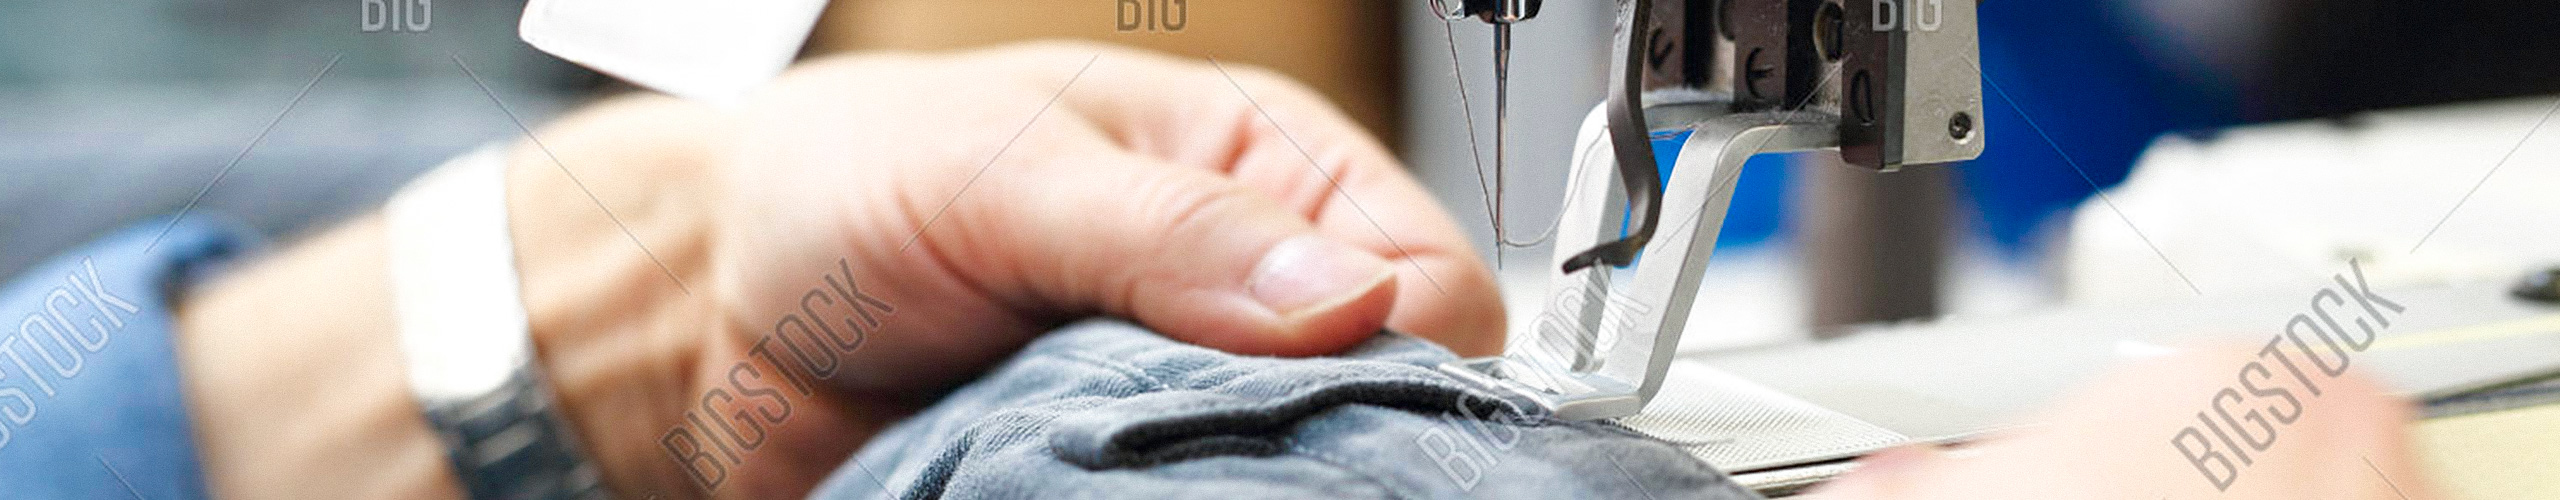
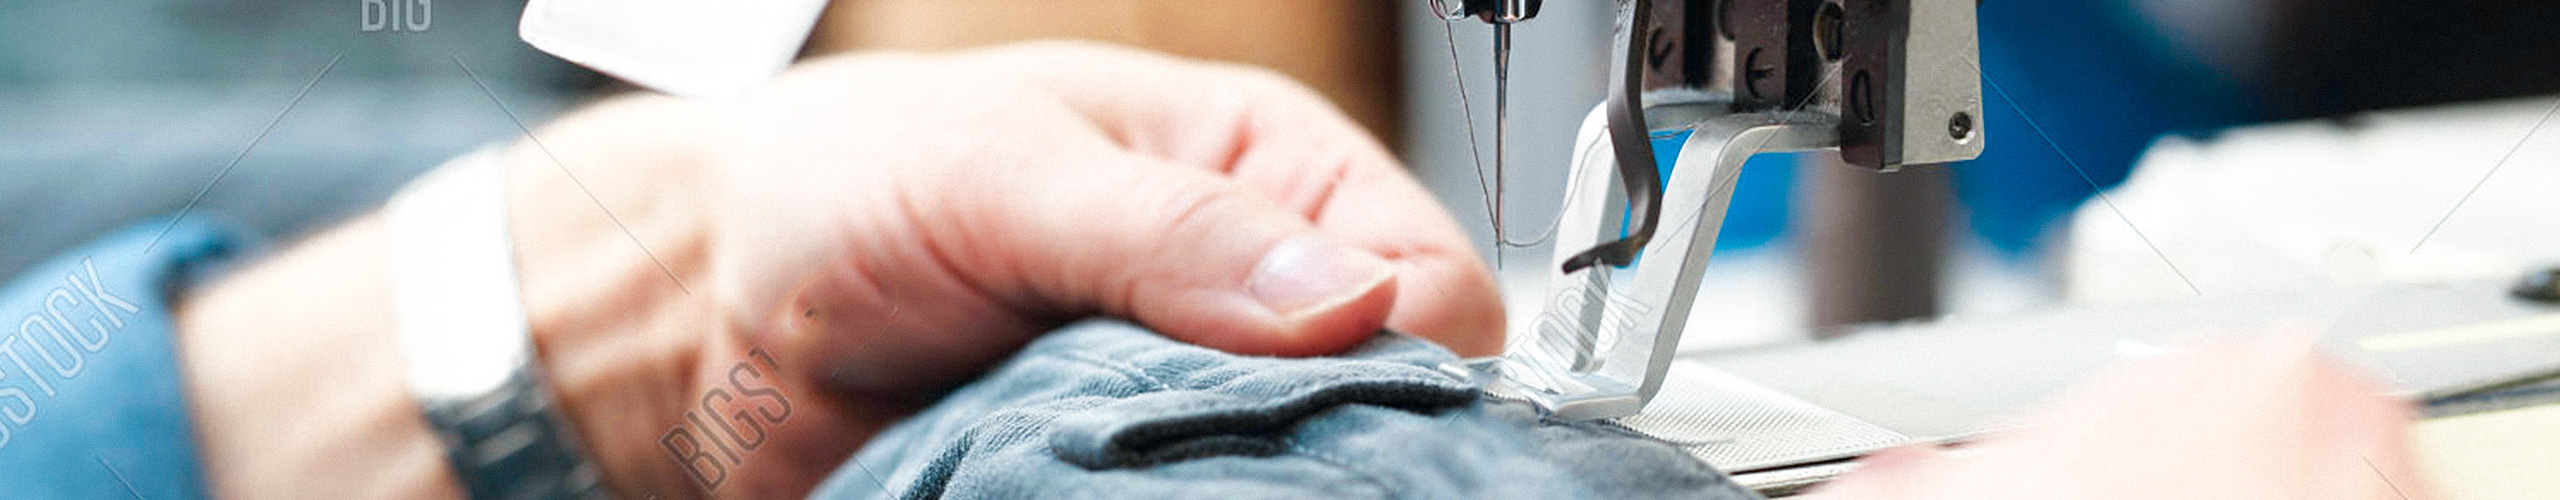
Changing repais header image

diff --git a/css/style.css b/css/style.css
@@ -1550,7 +1550,7 @@ min-height: 640px;
 
 /*  REPAIRS  */
 
-.bg-header-repairs { background-image: url(bgs/header-repairs-4.jpg); }
+.bg-header-repairs { background-image: url(bgs/header-repairs-1.jpg); }
 
 
 /*  ABOUT PAGE  */
